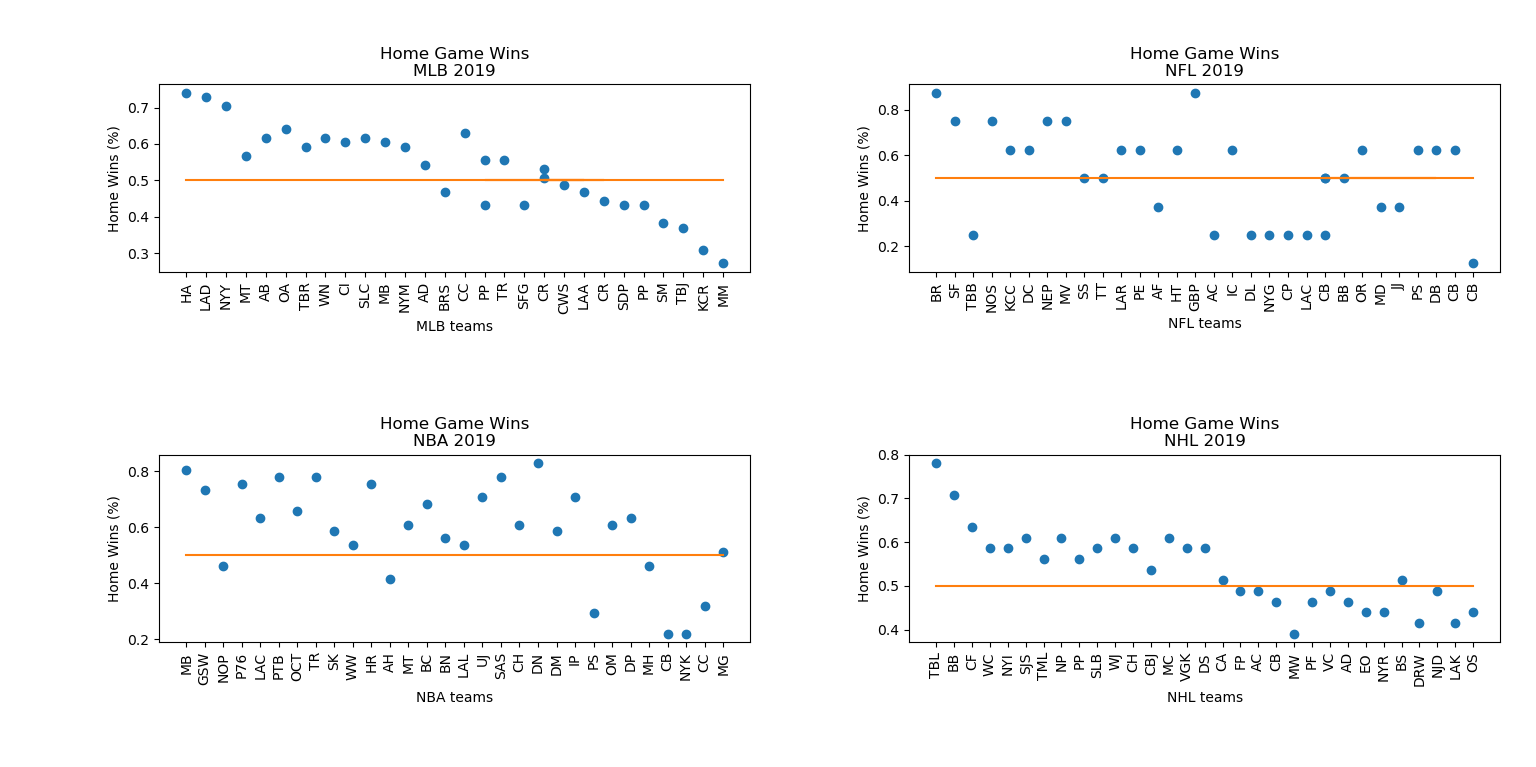
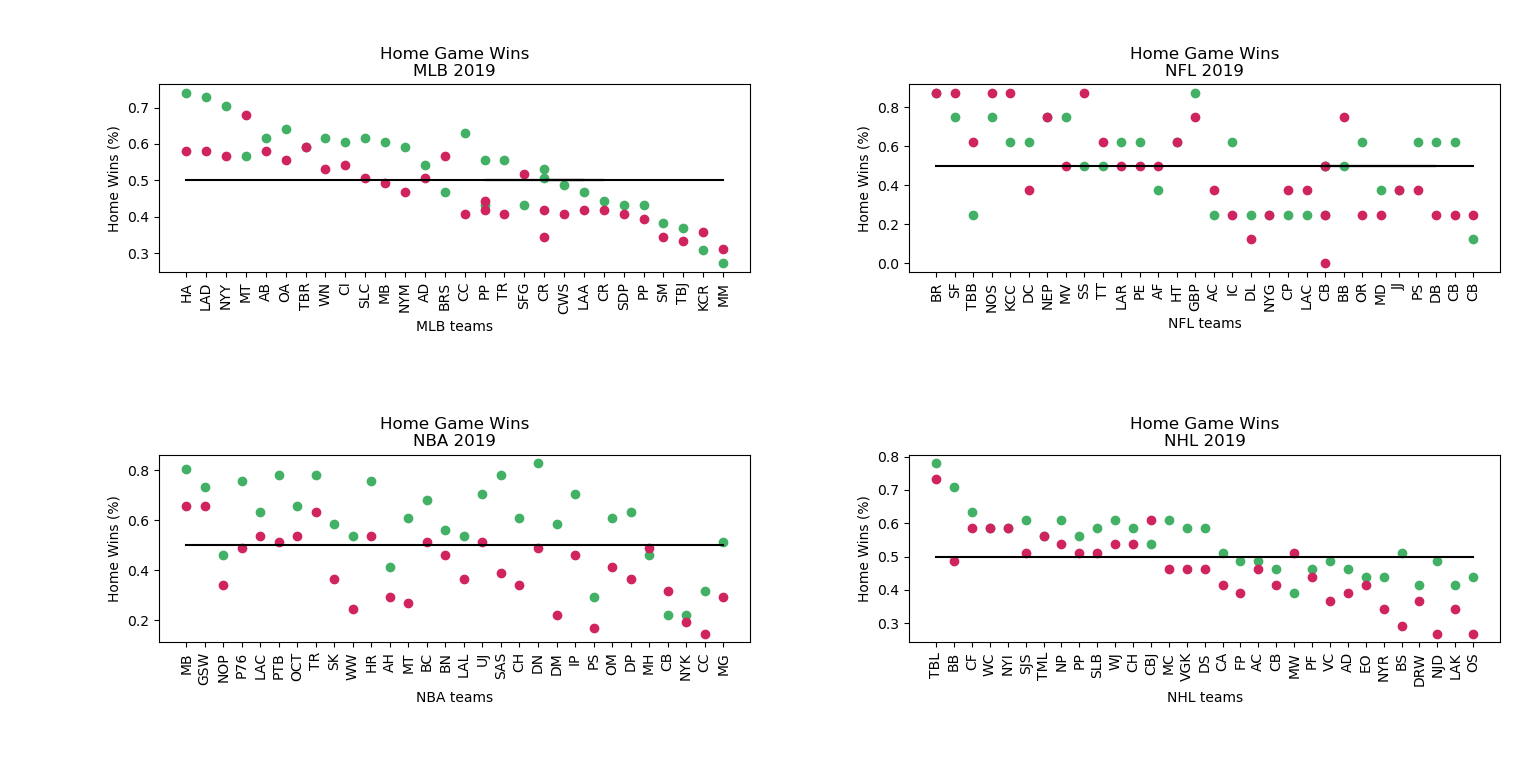
better visual

diff --git a/home_field_advantage_calcs.py b/home_field_advantage_calcs.py
@@ -116,6 +116,7 @@ def get_line_plot_data(year, leagues, cur, conn, z_star):
         list = calculate_z_score(league_records, z_star)
         teams = []
         home_p_list = []
+        away_p_list = []
         fifty = []
         i = 1
         num = []
@@ -129,9 +130,10 @@ def get_line_plot_data(year, leagues, cur, conn, z_star):
                 abbrev = abbrev + str(76)
             teams.append(abbrev)
             home_p_list.append(rec["home_p"])
+            away_p_list.append(rec['away_p'])
             fifty.append(.5)
             num.append(i); i = i + 1
-        data = [teams, home_p_list, fifty, num]
+        data = [teams, home_p_list, fifty, num, away_p_list]
         print(data[0])
         data_list.append(data)
     return data_list
@@ -143,8 +145,9 @@ def line_plot(data_list, year):
     for data in data_list:
         strnum = "22" + str(fig_num)
         ax = fig.add_subplot(int(strnum))
-        ax.plot(data[0], data[1], marker ="o", linestyle="none")
-        ax.plot(data[0], data[2])
+        ax.plot(data[0], data[1], color="#42B165", marker ="o", linestyle="none")
+        ax.plot(data[0], data[4], color="#CF2460", marker ="o", linestyle="none")
+        ax.plot(data[0], data[2], color = "black")
         ax.set_title("Home Game Wins\n" + leagues[fig_num-1] + " " + str(year))
         ax.set_ylabel("Home Wins (%)")
         ax.set_xlabel(leagues[fig_num-1] + " teams")
@@ -194,5 +197,5 @@ if __name__ == '__main__':
     #box_data2019 = get_box_plot_data(2019, leagues, cur, conn, 1.28)
     #box_plot(box_data2019, 2019)
 
-    #line_data2019 = get_line_plot_data(2019, leagues, cur, conn, 1.28)
-    #line_plot(line_data2019, 2019)
+    line_data2019 = get_line_plot_data(2019, leagues, cur, conn, 1.28)
+    line_plot(line_data2019, 2019)
